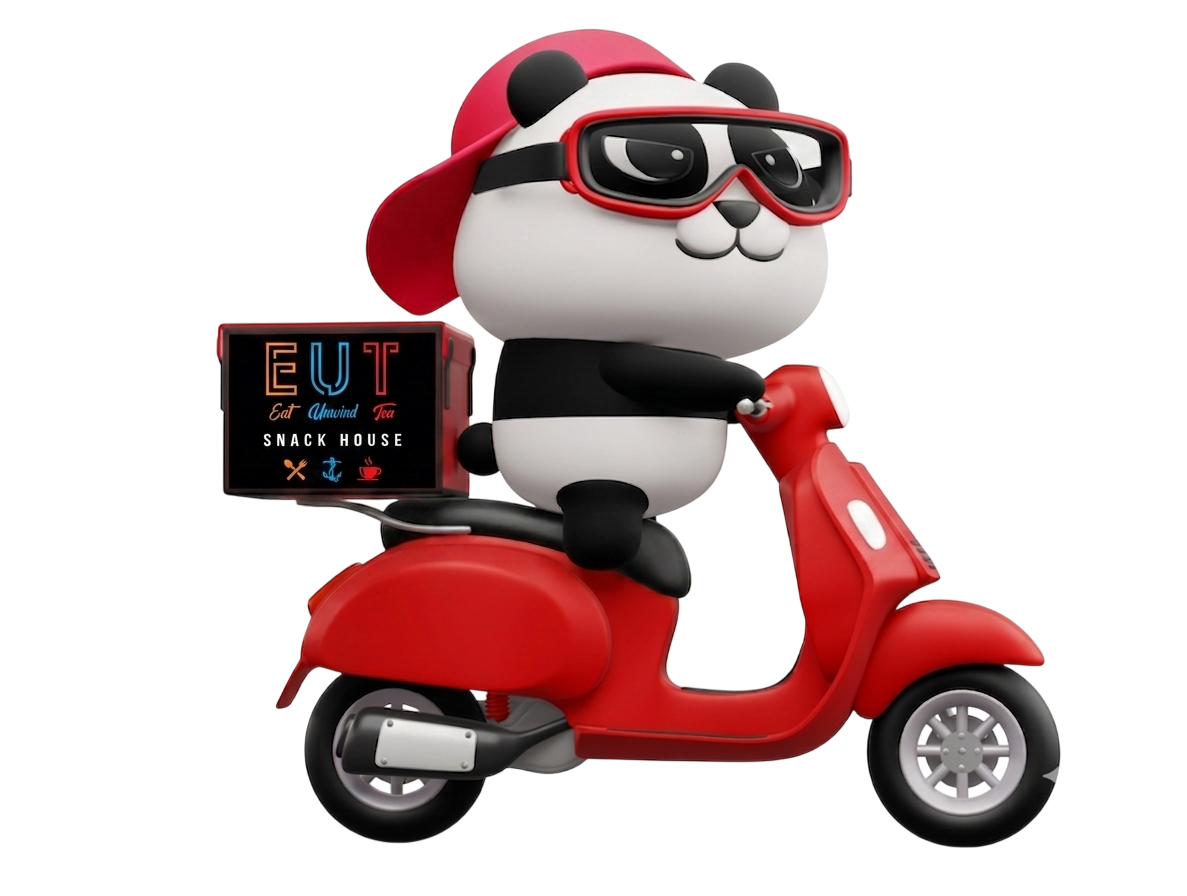
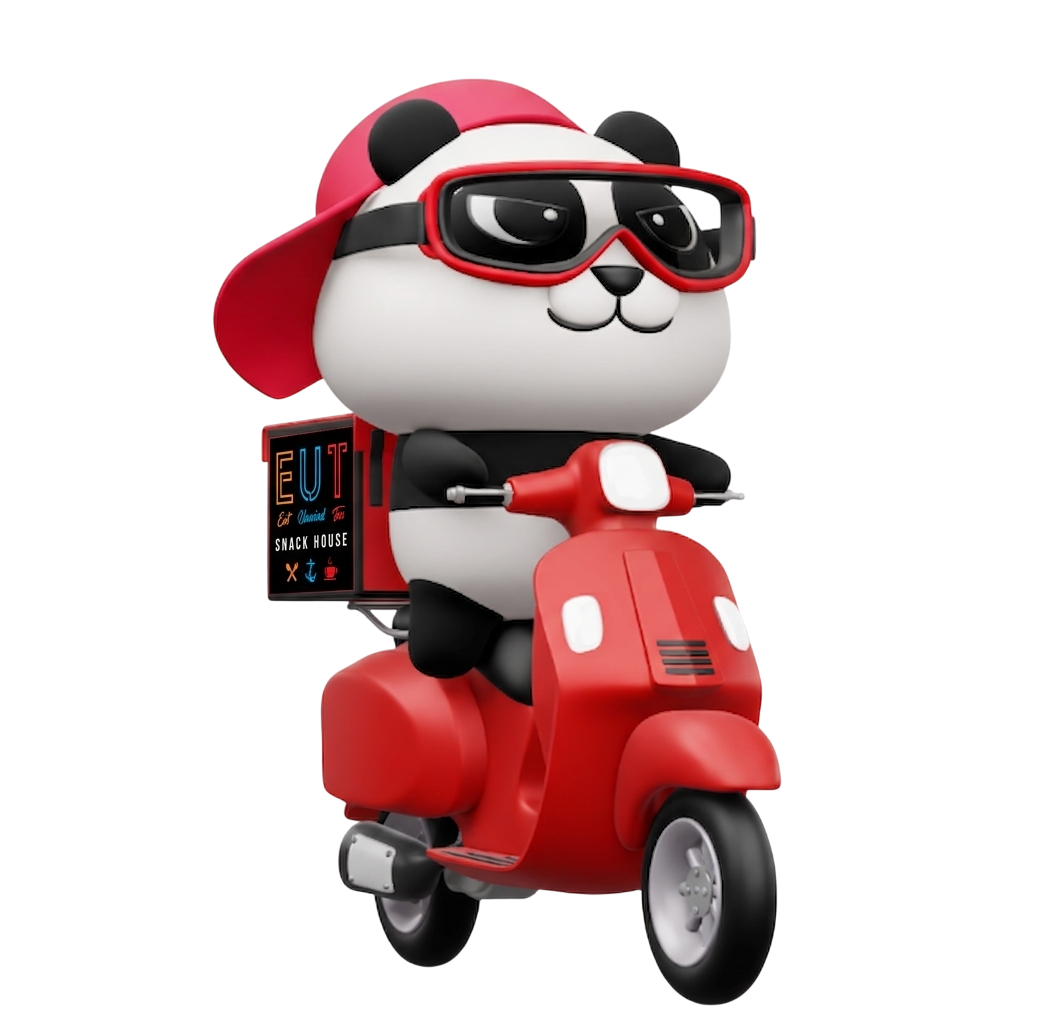
feat(restaurant): refine hero panda sizing and spacing for better mobile layout
- Reduce hero panda width from 460px to 380px for better proportions on desktop
- Remove gap between panda and sales card on mobile (gap: 8px → 0px)
- Add negative margin to panda on tablet breakpoint (margin-right: -16px) for overlapping effect
- Add negative margin to panda on mobile breakpoint (margin-right: -12px) for improved spacing
- Update DeliveryPanda1.png asset with refined imagery
- Improves visual hierarchy and layout cohesion across all responsive breakpoints

diff --git a/resources/views/restaurant.blade.php b/resources/views/restaurant.blade.php
@@ -209,7 +209,7 @@ img { display: block; }
 }
 .hero-panda-wrap { position: relative; }
 .hero-panda {
-    width: 460px; height: auto; object-fit: contain;
+    width: 380px; height: auto; object-fit: contain;
     filter: drop-shadow(0 0 60px rgba(220,38,38,0.3)) drop-shadow(0 20px 40px rgba(220,38,38,0.2));
     animation: panda-float 5s ease-in-out infinite;
 }
@@ -766,8 +766,8 @@ img { display: block; }
     .hero { padding: 60px 24px; min-height: auto; }
     .hero-inner { flex-direction: column; gap: 40px; text-align: center; }
     .hero-right { order: -1; width: 100%; display: flex; justify-content: center; }
-    .hero-panda-wrap { width: 100%; display: flex; justify-content: center; align-items: center; gap: 8px; padding: 0 16px; }
-    .hero-panda { width: 260px; }
+    .hero-panda-wrap { width: 100%; display: flex; justify-content: center; align-items: center; gap: 0px; padding: 0 16px; }
+    .hero-panda { width: 260px; margin-right: -16px; }
     .hero-sales-card { position: relative; left: 0; bottom: 0; margin-top: 0; min-width: 130px; flex-shrink: 0; width: 140px; padding: 12px 14px; border-radius: 14px; }
     .hero-sales-amount { font-size: 20px; }
     .hero-sales-label { font-size: 9px; margin-bottom: 6px; }
@@ -803,7 +803,7 @@ img { display: block; }
 @media (max-width: 600px) {
     .hero { padding: 48px 16px; }
     .hero-title { font-size: 30px; }
-    .hero-panda { width: 240px; }
+    .hero-panda { width: 240px; margin-right: -12px; }
     .hero-sales-card { width: 130px; min-width: 120px; padding: 10px 12px; border-radius: 12px; }
     .hero-sales-amount { font-size: 18px; }
     .hero-sales-label { font-size: 8px; }